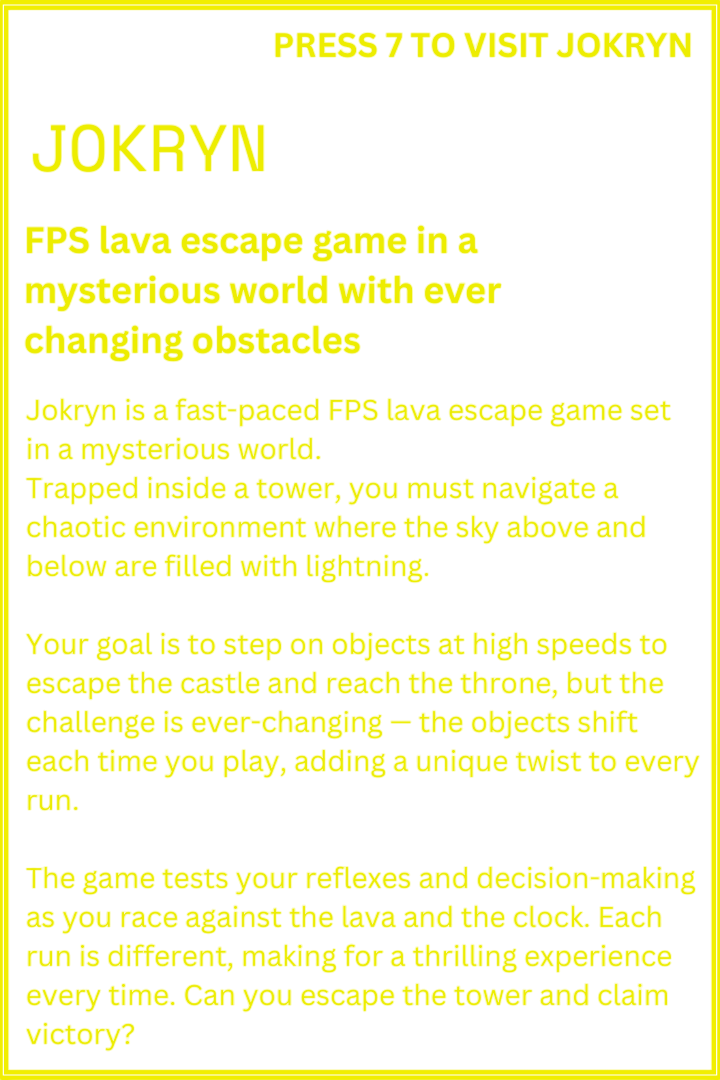
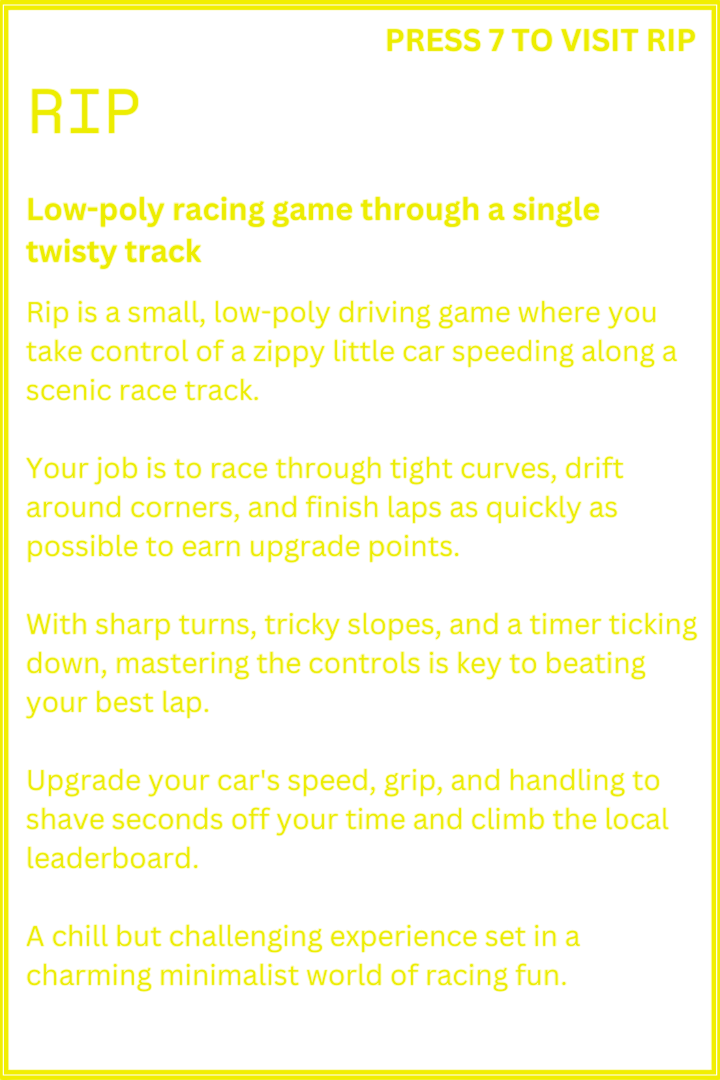
Portfolio V1

Changed region(s): [[0.0306, 0.0611, 0.9778, 0.9778], [0.3667, 0.0, 0.9778, 0.0611]]

diff --git a/Smokashi-Portfolio/src/main.js b/Smokashi-Portfolio/src/main.js
@@ -19,7 +19,7 @@ const randomAxis = new THREE.Vector3(
 
 const cardWidth = 1;
 const cardHeight = 1.5;
-const totalCards = 10;
+const totalCards = 9;
 const radius = 2;
 
 const geometry = new THREE.PlaneGeometry(cardWidth, cardHeight);
@@ -118,4 +118,39 @@ window.addEventListener('resize', () => {
   // Update camera aspect ratio and projection matrix
   camera.aspect = w / h;
   camera.updateProjectionMatrix();
+});
+
+window.addEventListener('keydown', (event) => {
+  switch (event.key) {
+    case '1':
+      window.open("https://smochat.pages.dev/", "_blank");
+      break;
+    case '2':
+      window.open("https://sencdec.pages.dev/", "_blank");
+      break;
+    case '3':
+      window.open("https://boardify-n2t.pages.dev/", "_blank");
+      break;
+    case '4':
+      window.open("https://smokashi.itch.io/haze", "_blank");
+      break;
+    case '5':
+      window.open("https://keyboard-cowboys.pages.dev/success-home", "_blank");
+      break;
+    case '6':
+      window.open("https://smokashi.itch.io/wooshy", "_blank");
+      break;
+    case '7':
+      window.open("https://smokashi.itch.io/rip", "_blank");
+      break;
+    case '8':
+      window.open("https://github.com/Abdullah-Younas", "_blank");
+      break;
+    case '0':
+      window.open("https://smokashi.itch.io/", "_blank");
+      break;
+    // Add more keys if needed
+    default:
+      break;
+  }
 });

diff --git a/Smokashi-Portfolio/index.html b/Smokashi-Portfolio/index.html
@@ -2,9 +2,9 @@
 <html lang="en">
   <head>
     <meta charset="UTF-8" />
-    <link rel="icon" type="image/svg+xml" href="/vite.svg" />
+    <link rel="icon" type="image/svg+xml" href='./public/9.jpg' />
     <meta name="viewport" content="width=device-width, initial-scale=1.0" />
-    <title>Vite App</title>
+    <title>Abdullah Younas Portfolio</title>
     <style>
       body {
         margin: 0;
@@ -13,7 +13,7 @@
       h1{
         color: #eded00;
         font-family: monospace;
-        font-size: 3em;
+        font-size: 2em;
       }
       .hehe{
         user-select: none;
@@ -29,7 +29,7 @@
   </head>
   <body>
     <div class="hehe">
-      <h1>PORTFOLIO</h1>
+      <h1>Abdullah Younas Portfolio</h1>
     </div>
     <audio src="./Amb.mp3" autoplay loop id="amb"></audio>
     <script type="module" src="/src/main.js"></script>

diff --git a/Smokashi-Portfolio/src/getStarfield.js b/Smokashi-Portfolio/src/getStarfield.js
@@ -1,6 +1,6 @@
 import * as THREE from "three";
 import starImg from './circle.png';
-export default function getStarfield({ numStars = 10000 } = {}) {
+export default function getStarfield({ numStars = 5000 } = {}) {
   function randomSpherePoint() {
     const radius = Math.random() * 27 + 27;
     const u = Math.random();
